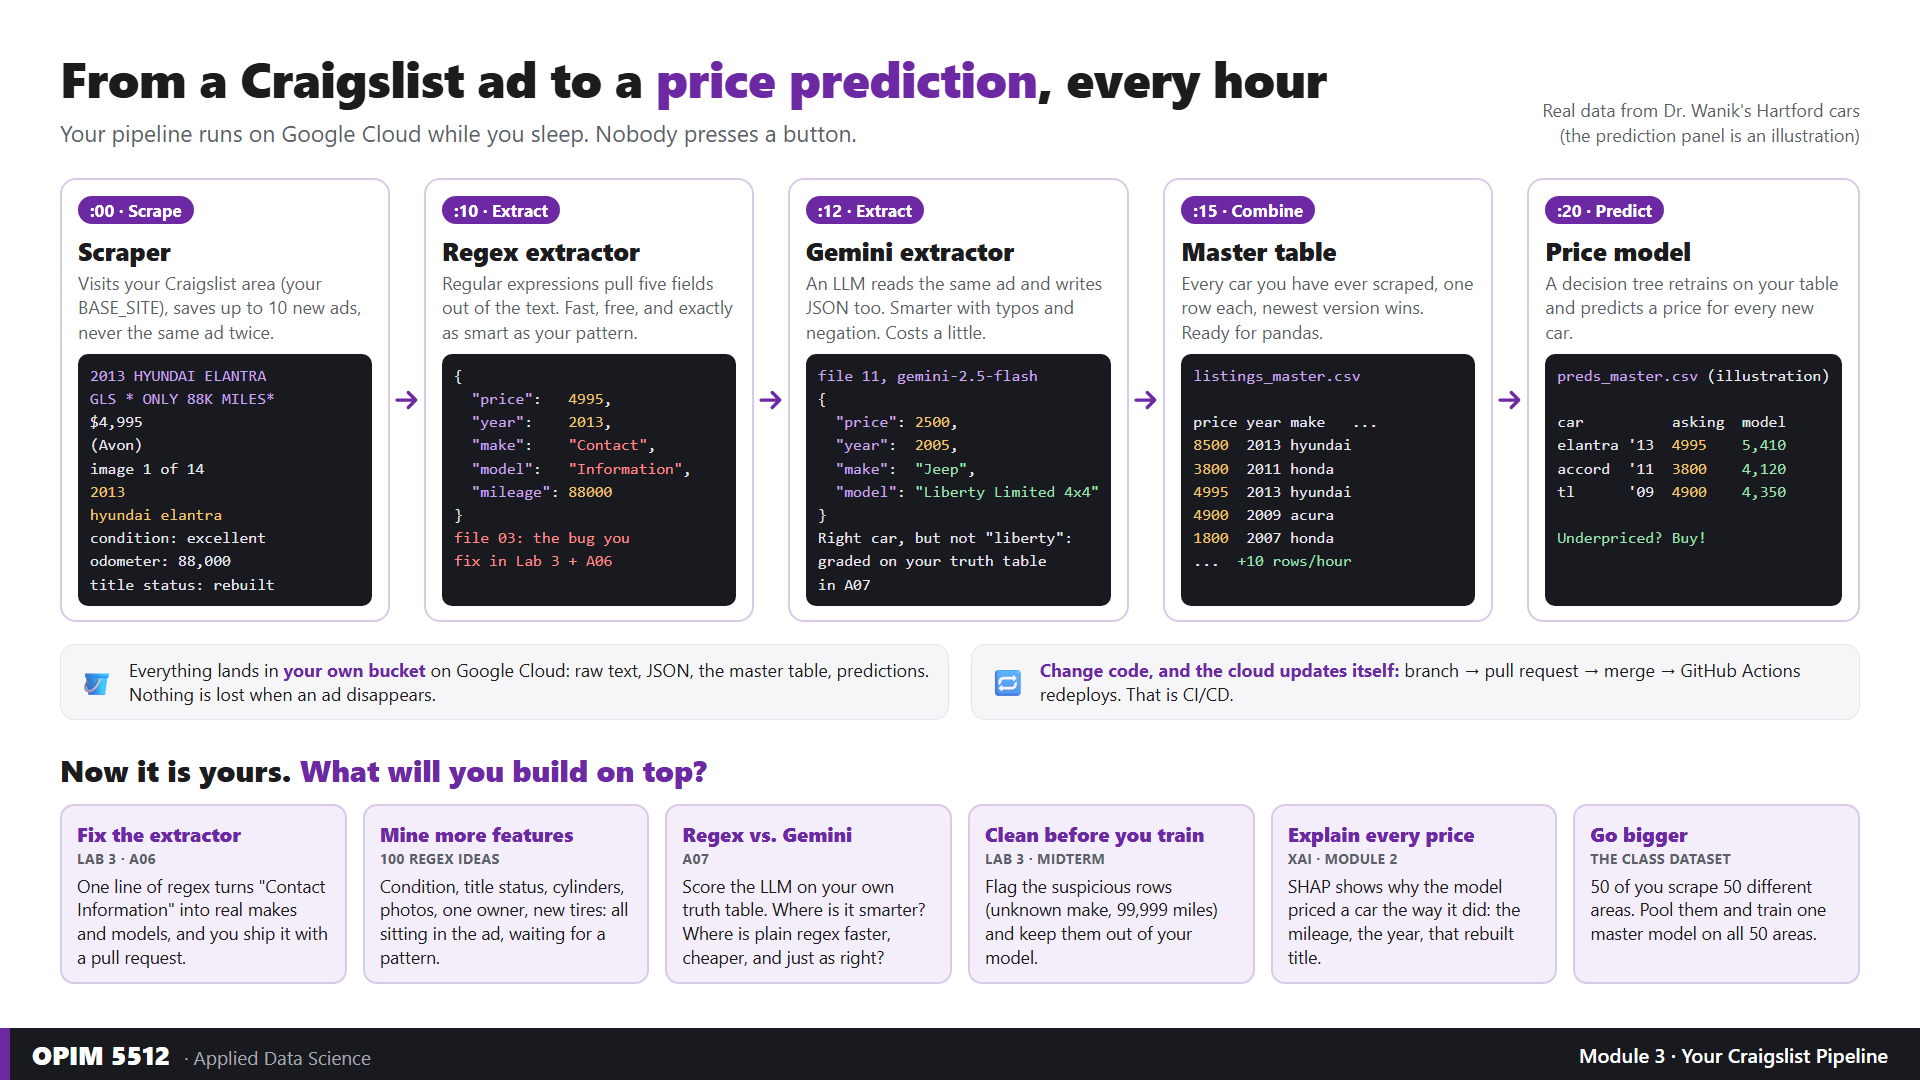
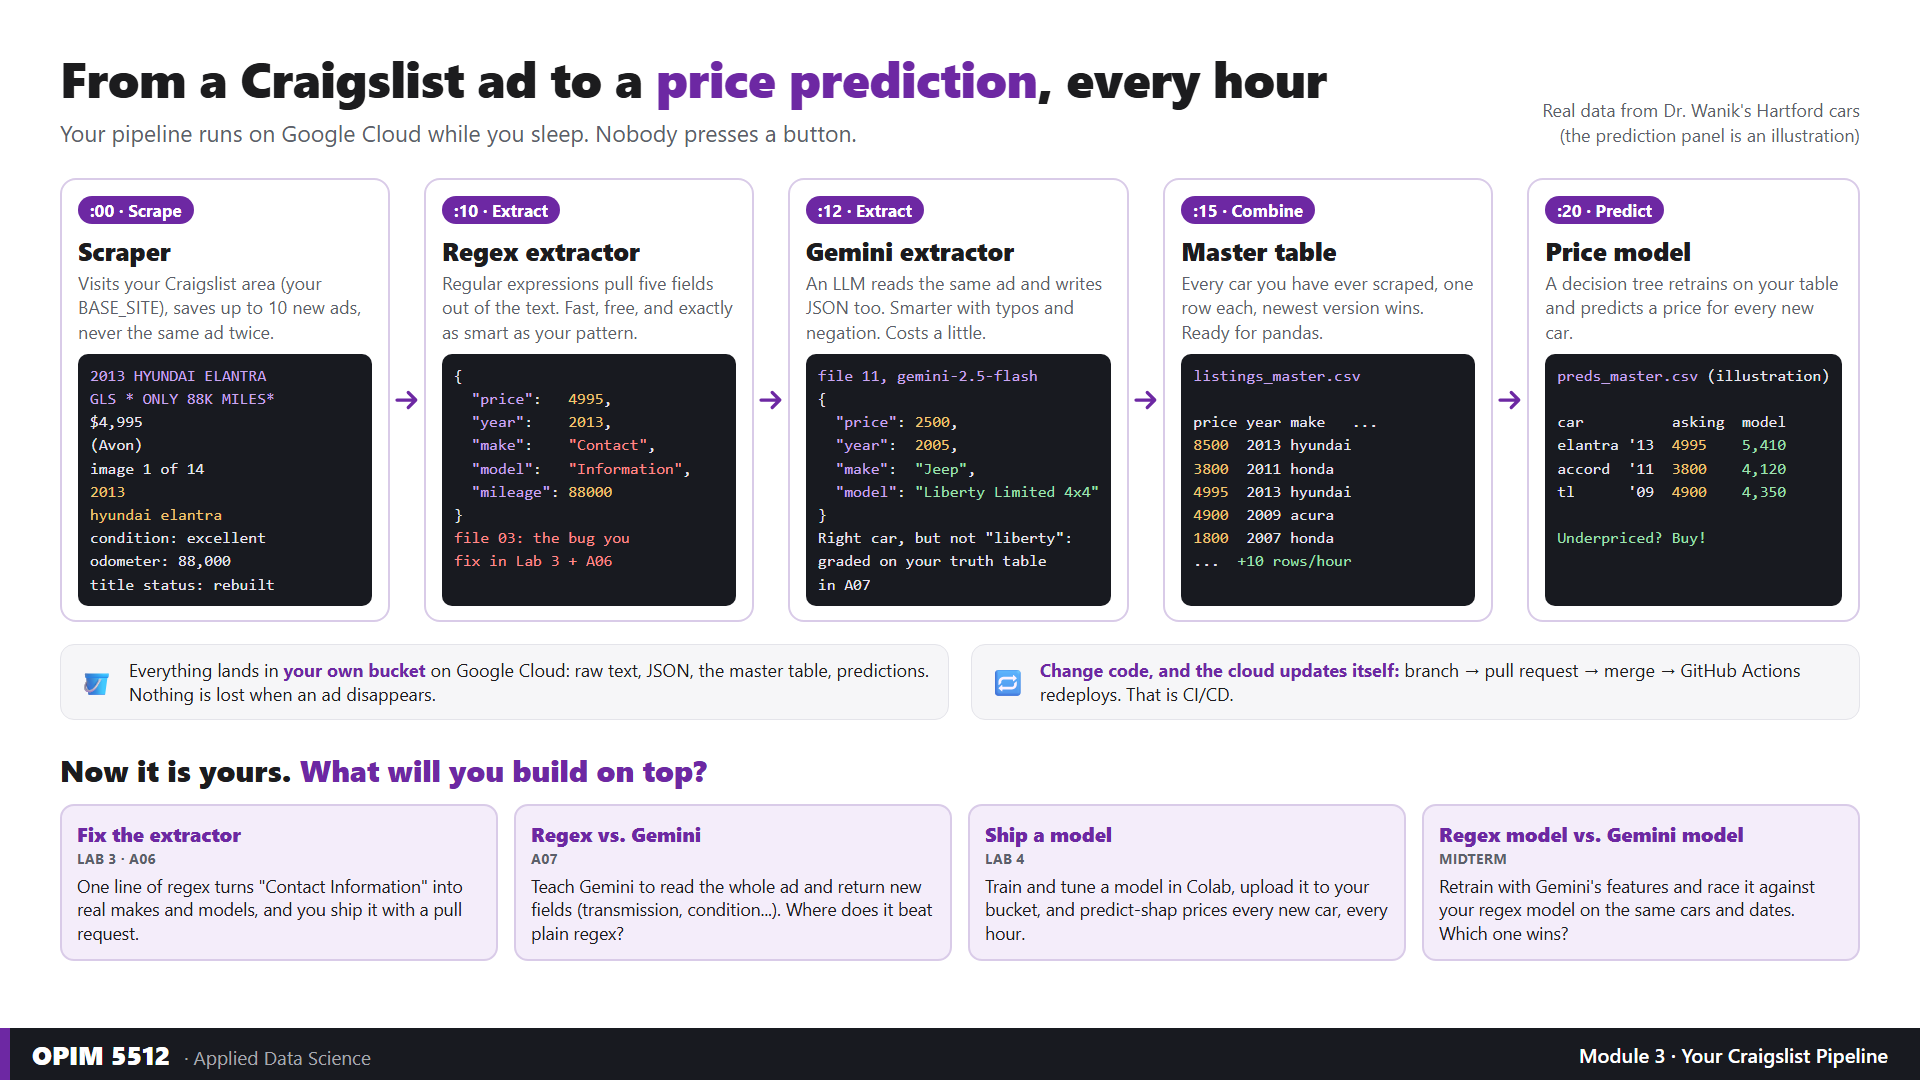
Pipeline graphic: 'build on top' row = Fix extractor, Regex vs Gemini, Ship a model (Lab 4), Regex vs Gemini model (midterm); class dataset removed

Changed region(s): [[0.0312, 0.7639, 0.9688, 0.9167]]

diff --git a/Module3/_img_src/pipeline_overview.html b/Module3/_img_src/pipeline_overview.html
@@ -29,7 +29,7 @@ h1 span { color:var(--purple); }
 .you { margin-top:30px; }
 .you h2 { font-size:30px; font-weight:800; }
 .you h2 span { color:var(--purple); }
-.cards { display:grid; grid-template-columns:repeat(6, 1fr); gap:16px; margin-top:14px; }
+.cards { display:grid; grid-template-columns:repeat(4, 1fr); gap:16px; margin-top:14px; }
 .card { background:var(--tint); border:2px solid var(--line); border-radius:14px; padding:14px 15px; }
 .card .t { font-size:20px; font-weight:800; color:var(--purple); }
 .card .when { font-size:14px; font-weight:700; color:var(--muted); letter-spacing:0.3px; text-transform:uppercase; margin-top:2px; }
@@ -141,11 +141,9 @@ tl      '09  <span class="n">4900</span>    <span class="s">4,350</span>
   <h2>Now it is yours. <span>What will you build on top?</span></h2>
   <div class="cards">
     <div class="card"><div class="t">Fix the extractor</div><div class="when">Lab 3 · A06</div><div class="d">One line of regex turns "Contact Information" into real makes and models, and you ship it with a pull request.</div></div>
-    <div class="card"><div class="t">Mine more features</div><div class="when">100 Regex Ideas</div><div class="d">Condition, title status, cylinders, photos, one owner, new tires: all sitting in the ad, waiting for a pattern.</div></div>
-    <div class="card"><div class="t">Regex vs. Gemini</div><div class="when">A07</div><div class="d">Score the LLM on your own truth table. Where is it smarter? Where is plain regex faster, cheaper, and just as right?</div></div>
-    <div class="card"><div class="t">Clean before you train</div><div class="when">Lab 3 · midterm</div><div class="d">Flag the suspicious rows (unknown make, 99,999 miles) and keep them out of your model.</div></div>
-    <div class="card"><div class="t">Explain every price</div><div class="when">xAI · Module 2</div><div class="d">SHAP shows why the model priced a car the way it did: the mileage, the year, that rebuilt title.</div></div>
-    <div class="card"><div class="t">Go bigger</div><div class="when">The class dataset</div><div class="d">50 of you scrape 50 different areas. Pool them and train one master model on all 50 areas.</div></div>
+    <div class="card"><div class="t">Regex vs. Gemini</div><div class="when">A07</div><div class="d">Teach Gemini to read the whole ad and return new fields (transmission, condition...). Where does it beat plain regex?</div></div>
+    <div class="card"><div class="t">Ship a model</div><div class="when">Lab 4</div><div class="d">Train and tune a model in Colab, upload it to your bucket, and predict-shap prices every new car, every hour.</div></div>
+    <div class="card"><div class="t">Regex model vs. Gemini model</div><div class="when">Midterm</div><div class="d">Retrain with Gemini's features and race it against your regex model on the same cars and dates. Which one wins?</div></div>
   </div>
 </div>
 
